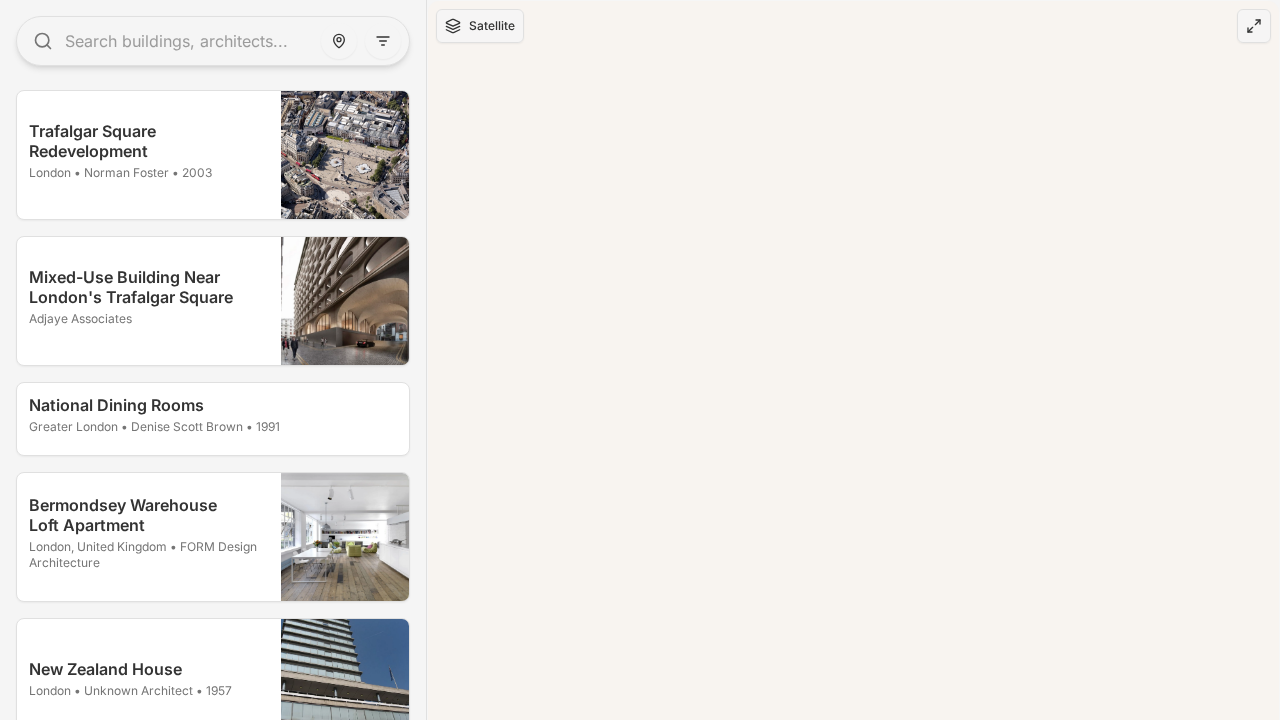
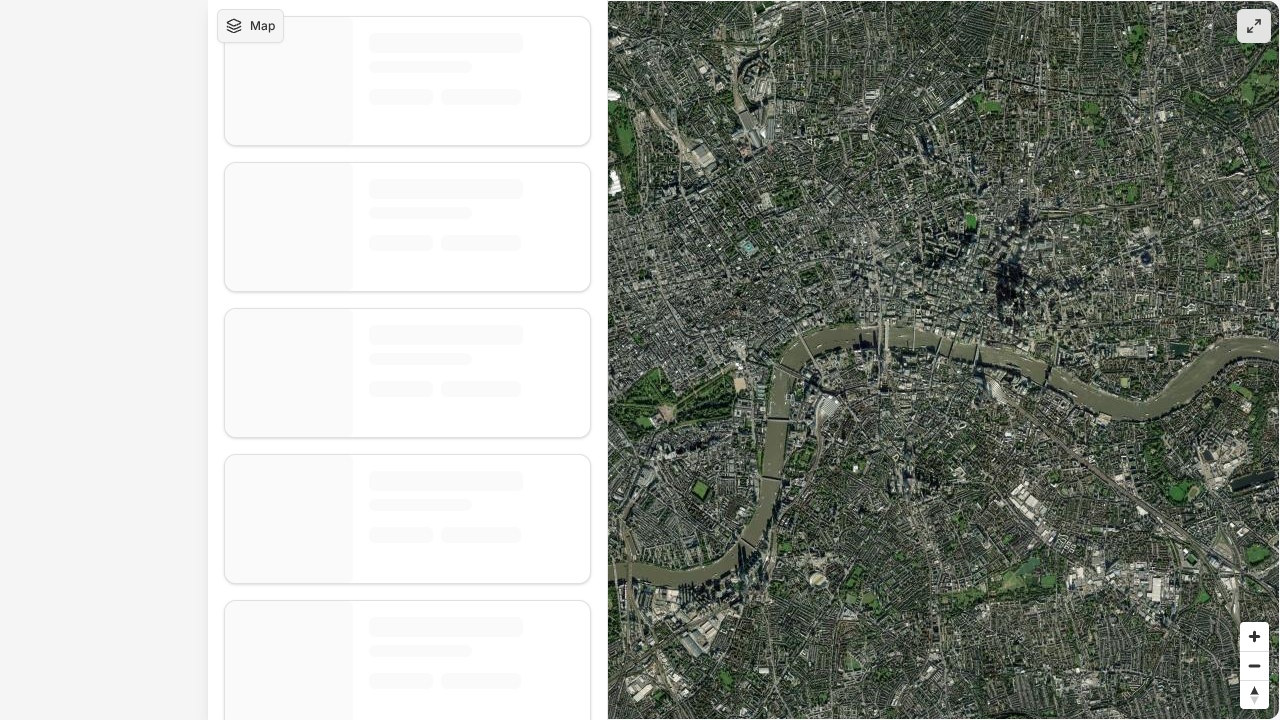
Force Satellite Mode & Isolate Data for Map Debugging
*   Modified `BuildingDiscoveryMap.tsx` to default to Satellite style and bypass `DEFAULT_MAP_STYLE` (vector tiles) to avoid MapLibre internal crashes.
*   Modified `SearchPage.tsx` to pass empty `externalBuildings={[]}` to isolate data rendering.
*   Updated `AppLayout.tsx` with `h-full flex-1` on the main container to ensure full-screen maps render correctly (fixing a 0px height issue).

diff --git a/src/components/common/BuildingDiscoveryMap.tsx b/src/components/common/BuildingDiscoveryMap.tsx
@@ -37,7 +37,7 @@ function throttle<T extends (...args: any[]) => any>(func: T, limit: number) {
   };
 }
 
-const DEFAULT_MAP_STYLE = "https://tiles.openfreemap.org/styles/liberty";
+// const DEFAULT_MAP_STYLE = "https://tiles.openfreemap.org/styles/liberty";
 
 const SATELLITE_STYLE = {
   version: 8,
@@ -132,7 +132,7 @@ export const BuildingDiscoveryMap = forwardRef<BuildingDiscoveryMapRef, Building
   const { user } = useAuth();
   const mapRef = useRef<MapRef>(null);
   const [mapInstance, setMapInstance] = useState<MapRef | null>(null);
-  const [isSatellite, setIsSatellite] = useState(false);
+  const [isSatellite, setIsSatellite] = useState(true);
   const [isFullScreen, setIsFullScreen] = useState(false);
   const [selectedPinId, setSelectedPinId] = useState<string | null>(null);
   const [hasVisibleCandidates, setHasVisibleCandidates] = useState(true);
@@ -822,7 +822,8 @@ export const BuildingDiscoveryMap = forwardRef<BuildingDiscoveryMapRef, Building
         }}
         mapLib={maplibregl}
         style={{ width: "100%", height: "100%" }}
-        mapStyle={isSatellite ? SATELLITE_STYLE : DEFAULT_MAP_STYLE}
+        // mapStyle={isSatellite ? SATELLITE_STYLE : DEFAULT_MAP_STYLE}
+        mapStyle={SATELLITE_STYLE}
       >
         <NavigationControl position="bottom-right" />
         {pins}

diff --git a/src/features/search/SearchPage.tsx b/src/features/search/SearchPage.tsx
@@ -163,7 +163,11 @@ export default function SearchPage() {
   // }, [handleListHighlight, isMobile]);
 
   return (
-    <AppLayout isFullScreen={true} showHeader={false} showNav={false}>
+    <AppLayout
+      isFullScreen={true}
+      showHeader={false}
+      showNav={false}
+    >
      <div
        data-testid="search-page-wrapper"
        className={`relative flex flex-col h-full transition-all duration-300 ease-in-out ${
@@ -224,7 +228,7 @@ export default function SearchPage() {
          <Suspense fallback={<div>Loading...</div>}>
            <BuildingDiscoveryMap
               ref={mapRef}
-              externalBuildings={safeBuildings}
+              externalBuildings={[]}
               onRegionChange={handleRegionChange}
               onBoundsChange={() => {}}
               onMapInteraction={handleMapInteraction}

diff --git a/src/components/layout/AppLayout.tsx b/src/components/layout/AppLayout.tsx
@@ -53,6 +53,7 @@ export function AppLayout({
         showHeader && "pt-16 md:pt-0",
         "w-full",
         !isFullScreen && "max-w-5xl mx-auto",
+        isFullScreen && "h-full flex-1",
         showNav && "pb-20 md:pb-0"
       )}>
         {children}

diff --git a/verify_map.py b/verify_map.py
@@ -1,0 +1,53 @@
+import time
+from playwright.sync_api import sync_playwright
+
+def verify_map():
+    with sync_playwright() as p:
+        # Enable SwiftShader for WebGL in headless mode
+        browser = p.chromium.launch(
+            headless=True,
+            args=[
+                "--enable-unsafe-swiftshader",
+                "--use-gl=angle",
+                "--use-angle=swiftshader"
+            ]
+        )
+        context = browser.new_context(viewport={'width': 1280, 'height': 720})
+        page = context.new_page()
+
+        # Listen for console logs
+        page.on("console", lambda msg: print(f"CONSOLE: {msg.text}"))
+
+        # Navigate to the search page where the map is
+        print("Navigating to search page...")
+        page.goto("http://localhost:8080/search")
+
+        # Wait for the map container to be visible
+        print("Waiting for map container...")
+        try:
+            handle = page.wait_for_selector("[data-testid='map-container']", state="visible", timeout=30000)
+            print("Map container found.")
+
+            # Check dimensions
+            bbox = handle.bounding_box()
+            print(f"Map container bbox: {bbox}")
+
+            # Check computed style height
+            height = page.evaluate("el => getComputedStyle(el).height", handle)
+            width = page.evaluate("el => getComputedStyle(el).width", handle)
+            print(f"Map container computed style: {width} x {height}")
+
+        except Exception as e:
+            print(f"Error waiting for map container: {e}")
+
+        # Give it a moment to render tiles (satellite)
+        time.sleep(10)
+
+        # Take a screenshot
+        print("Taking screenshot...")
+        page.screenshot(path="verification_map.png")
+
+        browser.close()
+
+if __name__ == "__main__":
+    verify_map()
